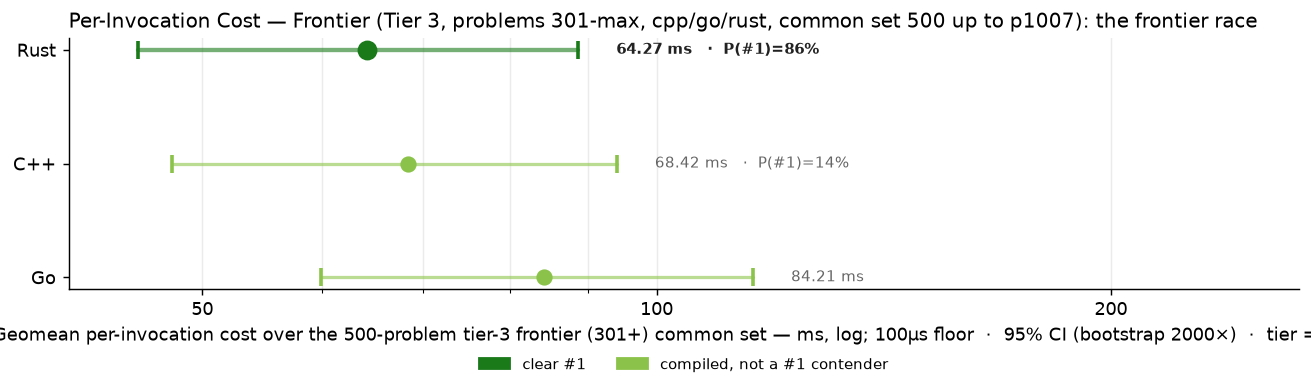
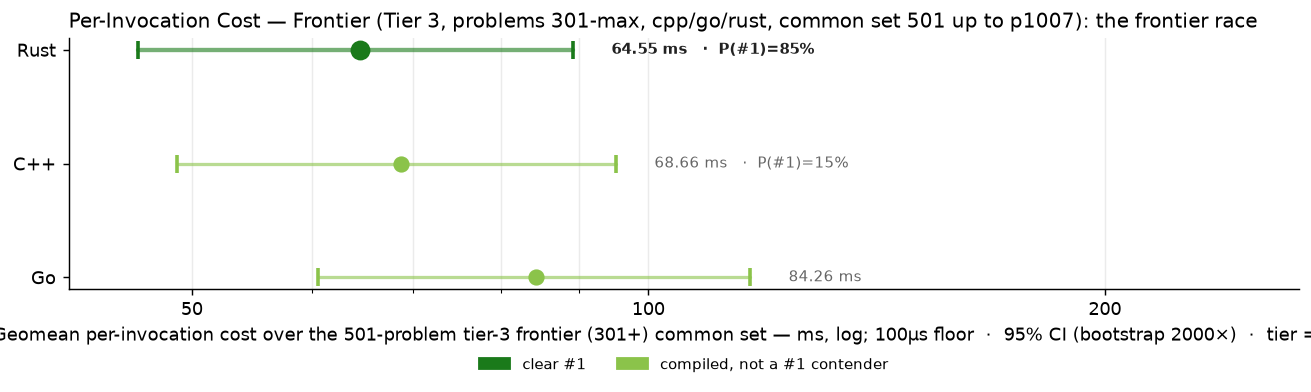
bench p0917 (frontier trio)

diff --git a/RESULTS.md b/RESULTS.md
@@ -1,6 +1,6 @@
 # Project Euler — Cross-Language Benchmarks
 
-> **Scope: 4521 in-scope cells across 1007 problems × tiered languages — 3914 measured (86.6% coverage).**
+> **Scope: 4521 in-scope cells across 1007 problems × tiered languages — 3917 measured (86.6% coverage).**
 > The cross-language ranking below is computed over the **200-problem common set** (problems in 1-200 where every language has a passing measurement) — the apples-to-apples Foundation comparison surface.  Per-tier rankings and coverage detail appear further below.
 > Growing carefully — each new problem and language is audited for state-leak
 > safety, verified for answer correctness, and added only when it cleanly fits the
@@ -70,15 +70,15 @@ Same scatter as the Foundation chart, restricted to the tier-2 active languages 
 
 The frontier verification trio — C++, Go, Rust — on problems above 300. 3-way cross-language agreement is the verification protocol (strictly stronger than 2-way; see JOURNEY.md "Tier Reframing" episode for the p254 lesson that motivated it). Python and Zig are explicitly out of this tier — python's wall cost makes it impractical at level 5+, and zig's role caps at Tier 2.
 
-### Per-Invocation Cost (Common Set, 500 of ≤707 problems in scope)
+### Per-Invocation Cost (Common Set, 501 of ≤707 problems in scope)
 
 ![Per-Invocation Cost — Tier 3](charts/per_iter_total_tier3.png)
 
-| Rank | Language | Geomean (500-problem common set) | Total (sum) | Lines of code | vs Fastest |
+| Rank | Language | Geomean (501-problem common set) | Total (sum) | Lines of code | vs Fastest |
 |------|----------|--------------------:|------------:|--------------:|-----------:|
-| 1 | **Rust** | 64.27 ms | 1496.84 s | 81,471 | 1.00× |
-| 2 | **C++** | 68.42 ms | 1630.19 s | 63,465 | 1.06× |
-| 3 | **Go** | 84.21 ms | 1883.08 s | 79,330 | 1.31× |
+| 1 | **Rust** | 64.55 ms | 1497.39 s | 81,668 | 1.00× |
+| 2 | **C++** | 68.66 ms | 1630.56 s | 63,596 | 1.06× |
+| 3 | **Go** | 84.26 ms | 1883.19 s | 79,462 | 1.31× |
 
 ### Speed vs Code Size
 

diff --git a/per_problem/per_problem_0901-1000.md b/per_problem/per_problem_0901-1000.md
@@ -24,7 +24,7 @@ in tier-1 display order (native → managed → interpreted).
 | **p0914** | 101.55 ms | 3.65 s | 100.08 ms |
 | **p0915** | 1.24 s | 25.51 ms | 7.45 ms |
 | **p0916** | — | — | — |
-| **p0917** | — | — | — |
+| **p0917** | 371.51 ms | 545.18 ms | 112.97 ms |
 | **p0918** | 10.4 µs | 4.29 ms | 7.60 ms |
 | **p0919** | 9.73 s | 41.38 s | 49.15 s |
 | **p0920** | 748.87 ms | 235.28 ms | 4.59 s |
